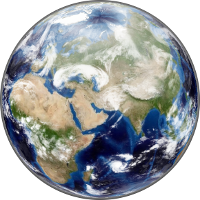
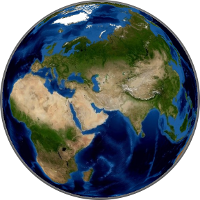
earth SpringAnimation

diff --git a/plasmoid/contents/luna/Luna.qml b/plasmoid/contents/luna/Luna.qml
@@ -22,11 +22,11 @@ Item {
              width: 68; height: 68
 
              property bool flipped: false
-             property int  n: 1
+             property int  n: 2
              Image {id: earth_sh; x: -7; y: -7; z:-1; smooth: true; source: "earthUnderShadow.png" }
 
-             front: Image { id: e_f; source: "e12.png"; smooth: true; anchors.centerIn: parent; anchors.fill: parent }
-             back:  Image { id: e_b; source: "e1.png";  smooth: true; anchors.centerIn: parent; anchors.fill: parent }
+             front: Image { id: e_f; source: "e1.png"; smooth: true; anchors.centerIn: parent; anchors.fill: parent }
+             back:  Image { id: e_b; source: "e2.png"; smooth: true; anchors.centerIn: parent; anchors.fill: parent }
 
              transform: Rotation {
                  id: rotation
@@ -36,14 +36,22 @@ Item {
                  angle: 0    // the default angle
              }
 
-             states: State {
-                 name: "back"
-                 PropertyChanges { target: rotation; angle: 180 }
-                 when: earth.flipped
-             }
+             states: [
+                 State {
+                     name: "back"
+                     PropertyChanges { target: rotation; angle: 180 }
+                     when: earth.flipped
+                 },
+                 State {
+                     name: "front"
+                     PropertyChanges { target: rotation; angle: 0 }
+                     when: !earth.flipped
+                 }
+             ]
 
              transitions: Transition {
-                 NumberAnimation { target: rotation; property: "angle"; duration: 400 }
+                 // NumberAnimation { target: rotation; property: "angle";  duration: 400 }
+                 SpringAnimation { target: rotation; property: "angle";  spring: 4; damping: 0.3; modulus: 360 ;mass :3}
              }
 
              MouseArea {
@@ -52,7 +60,7 @@ Item {
                      earth.flipped = !earth.flipped
                      if(earth.flipped) e_b.source = "e"+earth.n+".png"; else e_f.source = "e"+earth.n+".png"
                      earth.n++
-                     if(earth.n == 13) earth.n = 1
+                     if(earth.n == 7) earth.n = 1
                  // console.log(earth.flipped)
                  }
              }
@@ -182,7 +190,7 @@ Item {
         },
         Transition {
             from: "big_earth"; to: "big_earth2"
-            NumberAnimation { properties: "opacity"; duration: 90;}
+            NumberAnimation { properties: "opacity"; duration: 2000;}
         },
         Transition {
             from: "big_earth2"; to: "*"
